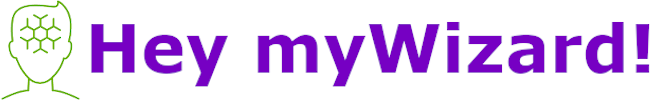
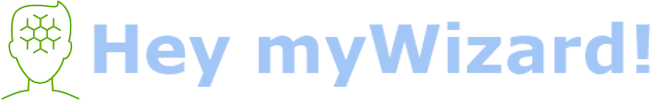
old logic look and feel revised

Changed region(s): [[0.1229, 0.21, 1.0, 0.87]]

diff --git a/rn-mywizard/src/components/chatbot/inputBox.js b/rn-mywizard/src/components/chatbot/inputBox.js
@@ -1,30 +1,29 @@
 import React from 'react';
-
+import cssGlobal from '../../css/globalStyles';
 const InputBox = (props) => {
 
     return (
+
+
+
+
         <div id="mw-inputbox" style={styles.inputContainer} className="row">
-            <div className="col  m12">
-                <div className="card indigo">
-                    <div className="card-content white-text">
-
-                        <input style={styles.inputBox}  className="textinput" 
-                            type="text" minLength="4" 
-                            maxLength="150" placeholder="Type new message here"
-                            value={props.transcript}
-                            onChange={props.change}
-                            onKeyPress={props.onkeypress}
-                        />
-                        <div className="row valign-wrapper">
-                            <button style={styles.buttonTwo} className="btn waves-effect waves-light" onClick={props.clickTwo} name="mantis">Send <i className="fas fa-paper-plane"></i></button>
-                            <button style={styles.buttonOne} className="btn waves-effect waves-light" onClick={props.click} name="mantis"><i className={props.micOnOff}></i></button>
-                        </div>
-
+            <ul className="collection" style={styles.collection} >
+                <li className="collection-item">
+                    <input className="textinput" style={styles.inputBox}
+                        type="text" minLength="4"
+                        maxLength="150" placeholder="Type new message here"
+                        value={props.transcript}
+                        onChange={props.change}
+                        onKeyPress={props.onkeypress}
+                    />
+                    <div className="row valign-wrapper" style={styles.rowValignWrapper}>
+                        <button style={styles.buttonTwo} className="btn waves-effect waves-light" onClick={props.clickTwo} name="mantis">Send <i className="fas fa-paper-plane"></i></button>
+                        <button style={styles.buttonOne} className="btn waves-effect waves-light" onClick={props.click} name="mantis"><i className={props.micOnOff}></i></button>
                     </div>
-                </div>
+                </li>
+            </ul>
 
-
-            </div>
         </div>
     )
 
@@ -32,17 +31,30 @@ const InputBox = (props) => {
 }
 const styles = {
     inputBox: {
-        color: 'white'
-    }, 
+        color: 'black',
+        borderBottom: cssGlobal.lightGrayBorder,
+        boxShadow: 'none'
+    },
     inputContainer: {
         width: '100%',
-        color: 'white',   
+        height: '50%',
+        color: 'white',
+        marginBottom: '0%',
+        boxShadow: 'red'
+    },
+    collection: {
+        border: 'none'
+    },
+    rowValignWrapper: {
+        marginBottom: '0%'
     },
     buttonTwo: {
-        marginLeft: '1.5%'
+        marginLeft: '1.5%',
+        backgroundColor: cssGlobal.lightBlue
     },
     buttonOne: {
-        marginLeft: '1%'
+        marginLeft: '1%',
+        backgroundColor: cssGlobal.lightBlue
     }
 }
 

diff --git a/rn-mywizard/src/components/chatbot/message.js b/rn-mywizard/src/components/chatbot/message.js
@@ -1,31 +1,69 @@
 import React from 'react';
+import cssGlobal from '../../css/globalStyles'
 
 const Message = (props) => {
     return (
 
-        <div className="col s12 m8 offset-m2 l6 offset-l3">
-            <div className="card-panel purple darken-4 lighten-5 z-depth-1">
-                <div className="row valign-wrapper">
-                    {props.speaks === 'bot' &&
-                        <div className="col s3">
-                            <a href="/#" className="btn-floating btn-large waves-effect waves-light purple accent-1">{props.speaks}</a>
-                        </div>
-                    }
-                    <div className="col s10">
-                        <span className="white-text">
-                            {props.text}
-                        </span>
+        <div className="col s12 m8 offset-m2 l6 offset-l3"  >
+            {/* <div className="card-panel purple darken-4 lighten-5 z-depth-1"> */}
+            <div className="row valign-wrapper" style={styles.rowValignWrapper}  >
+                {props.speaks === 'bot' &&
+                    <div className="col s3" style={styles.botSpeaks} >
+                        <a href="/#" className="btn-floating btn-large waves-effect waves-light  blue lighten-3" style={styles.botSpeaks} >{props.speaks}</a>
                     </div>
-                    {props.speaks === 'user' &&
-                        <div className="col s3">
-                            <a href="/#" className="btn-floating btn-large waves-effect waves-light purple accent-4">{props.speaks}</a>
-                        </div>
-                    }
+                }
+                <div className="col s10" style={styles.text}   >
+                    <span  className="spanText" style={styles.spanText} >
+                        {props.text}
+                    </span>
                 </div>
+                {props.speaks === 'user' &&
+                    <div className="col s3" style={styles.userSpeaks}>
+                        <a href="/#" className="btn-floating btn-large waves-effect waves-light  blue lighten-4">{props.speaks}</a>
+                    </div>
+                }
             </div>
+            {/* </div> */}
         </div>
 
     );
 };
+//console.log(props.keys ) key={ props.keys%2 ? styles.botSpeaks.backgroundColor = 'red' :  console.log('user input'  ) } key={ props.keys%2 ?  console.log('bot output'  ) :  Object.assign( {},styles.text, newStyles.text ) }
+const styles = {
+    rowValignWrapper: {
+        width: '90%',
+        
+    },
+    text: {
+        backgroundColor: cssGlobal.gray ,
+        border: cssGlobal.gray,
+        borderRadius: '24px',
+        width: '71%',
+        padding: '2%',
+        textAlign: 'left', 
+        textColor: cssGlobal.black
+    },
+    spanText: {
+        color: cssGlobal.black
+    },
+    botSpeaks: {
+        marginLeft: '0%',
+        color: cssGlobal.botIcons ,
+    },
+    userSpeaks: {
+       
+    }
+}
+
+const newStyles = {
+    
+    text: {
+        marginLeft: '-54%',
+    },
+    userSpeaks: {
+        marginLeft: '84%',
+    }
+}
+
 
 export default Message;

diff --git a/rn-mywizard/src/components/chatbot/SingleBotMessage.js b/rn-mywizard/src/components/chatbot/SingleBotMessage.js
@@ -1,31 +1,49 @@
 import React from 'react';
+import cssGlobal from '../../css/globalStyles'; 
 
 const SingleMessage = (props) => {
     return (
 
-        <div id={props.id}className="col s12 m8 offset-m2 l6 offset-l3 single-message">
-            <div className="card-panel purple darken-4 lighten-5 z-depth-1">
-                <div className="row valign-wrapper">
-                    {props.speaks === 'bot' &&
-                        <div className="col s3">
-                            <a href="/#" className="btn-floating btn-large waves-effect waves-light purple accent-1">{props.speaks}</a>
-                        </div>
-                    }
-                    <div className="col s10">
-                        <span className="white-text">
-                            {props.text}
-                        </span>
+        <div id={props.id} className="col s12 m8 offset-m2 l6 offset-l3 single-message">
+
+            <div className="row valign-wrapper"  style={styles.rowValignWrapper} >
+                {props.speaks === 'bot' &&
+                    <div className="col s3">
+                        <a href="/#" className="btn-floating btn-large waves-effect waves-light  blue lighten-3">{props.speaks}</a>
                     </div>
-                    {/* {props.speaks === 'user' &&
-                        <div className="col s3">
-                            <a href="/#" className="btn-floating btn-large waves-effect waves-light purple accent-4">{props.speaks}</a>
-                        </div>
-                    } */}
+                }
+                <div className="col s10" style={styles.text} >
+                    <span className="spanText" style={styles.spanText} >
+                        {props.text}
+                    </span>
                 </div>
             </div>
+
         </div>
 
     );
 };
 
+const styles = {
+    rowValignWrapper: {
+        width: '90%',
+    },
+    text: {
+        backgroundColor: cssGlobal.gray,
+        border: cssGlobal.gray,
+        textColor: cssGlobal.black,
+        borderRadius: '24px',
+        width: '71%',
+        padding: '2%'
+    },
+     spanText: {
+         color: cssGlobal.black
+     }
+    // bubbleTail: {
+    //     width: '0',
+    //     height: '0',
+    //     borderBottom: ' 10px solid rebeccapurple',
+    //     borderRight: '100px solid transparent',
+    //   }
+}
 export default SingleMessage;

diff --git a/rn-mywizard/src/css/chatbotStyle.css b/rn-mywizard/src/css/chatbotStyle.css
@@ -1,33 +1,28 @@
 /* the inside chatbot scrollbar */
+
 /*
 (151, 202, 61)
 */
-div#chatbot::-webkit-scrollbar
-{
-    width: 10px;
-    background-color: none;
+
+div#chatbot::-webkit-scrollbar {
+  width: 10px;
+  background-color: none;
 }
 
-div#chatbot::-webkit-scrollbar-track
-{
-    -webkit-box-shadow: inset 0 0 6px rgba(0,0,0,0.3);
-    background-color: none;
-    border-radius: 10px;
+div#chatbot::-webkit-scrollbar-track {
+  -webkit-box-shadow: inset 0 0 6px rgba(0, 0, 0, 0.3);
+  background-color: none;
+  border-radius: 10px;
 }
 
-div#chatbot::-webkit-scrollbar-thumb
-{
-    border-radius: 10px;
-    background-image: -webkit-gradient(linear,
-                                       left bottom,
-                                       left top,
-                                       color-stop(0.44, rgb(173,213,100)),
-                                       color-stop(0.72, rgb(151,202,61)),
-                                       color-stop(0.86, rgb(130,173,48)));
+div#chatbot::-webkit-scrollbar-thumb {
+  border-radius: 10px;
+  background-image: -webkit-gradient(linear, left bottom, left top, color-stop(0.44, rgb(162, 198, 246)), color-stop(0.72, rgb(162, 198, 246)), color-stop(0.86, rgb(162, 198, 246)));
 }
 
 /* input box */
 
+/* 
 @media only screen and (min-width: 425px) {
     div#mw-inputbox.row{
     
@@ -38,5 +33,5 @@ div#chatbot::-webkit-scrollbar-thumb
        
     
     }
-  } 
-
+  }  */
+ 

diff --git a/rn-mywizard/src/components/chatbot/chatbot.js b/rn-mywizard/src/components/chatbot/chatbot.js
@@ -8,6 +8,7 @@ import InputBox from './inputBox';
 import Loader from '../loader/loader';
 
 import '../../css/chatbotStyle.css';
+import cssGlobal from '../../css/globalStyles'; 
 
 const SpeechRecognition = window.webkitSpeechRecognition;
 const reconition = new SpeechRecognition()
@@ -248,7 +249,7 @@ class Chatbot extends Component {
     renderMessages = (returnedMessages) => {
         if (returnedMessages) {
             return returnedMessages.map((message, i) => {
-                return <Message key={i} speaks={message.speaks} text={message.msg.text.text} />;
+                return <Message keys={i} speaks={message.speaks} text={message.msg.text.text} />;
             })
         } else {
             return '[*NO MESSAGES*]';
@@ -329,14 +330,14 @@ const styles = {
         padding: '1%'
     },
     cbcontainer: {
-        backgroundColor: '#1a237e',
-        height: '60%',
-        width: '70%',
+        backgroundColor: 'white',
+        height: '60%', 
+        width: '50%',
        // borderColor: 'black',
-        border: 'solid 5px #97ca3d',
+        border: 'solid 5px #a2c6f6',
         padding: '2%',
         paddingLeft: '3%',
-        marginLeft: '15%',
+        marginLeft: '25%',
         borderBottomLeftRadius: '10px',
         borderBottomRightRadius: '10px',
         borderTopLeftRadius: '10px',

diff --git a/rn-mywizard/src/components/loader/loader.js b/rn-mywizard/src/components/loader/loader.js
@@ -1,5 +1,5 @@
 import React from 'react';
-
+import cssGlobal from '../../css/globalStyles';
  const ShowDetail = () => {
   return (
     <div style={styles.loaderImage} className="loader center">
@@ -13,7 +13,7 @@ const styles = {
        zoom: 4
     },
     spinner: {
-        color: '#97ca3d'
+        color: cssGlobal.lightBlue
     }
 };
 

diff --git a/rn-mywizard/src/components/banner/banner.js b/rn-mywizard/src/components/banner/banner.js
@@ -14,7 +14,13 @@ const Banner = () => {
 
 const styles = {
     container: {
-        margin: '2%'
+        margin:' 2%,',
+        position:' absolute',
+        top: '1%',
+        float:' left',
+        width:' 30%',
+        left: '0%',
+    
      },
     logo: {
        width: '55%'

diff --git a/rn-mywizard/public/index.html b/rn-mywizard/public/index.html
@@ -28,7 +28,7 @@
       work correctly both with client-side routing and a non-root public URL.
       Learn how to configure a non-root public URL by running `npm run build`.
     -->
-    <title>React App</title>
+    <title>Hey myWizard!</title>
     <style>
        
        

diff --git a/rn-mywizard/src/css/globalStyles.js b/rn-mywizard/src/css/globalStyles.js
@@ -1,0 +1,10 @@
+const global = {
+    color: '',
+    lightBlue: '#a2c6f6',
+    gray: '#ededed',
+    black: 'black',
+    white: 'white',
+    lightGrayBorder: '1px solid #ededed'
+}
+
+export default global; 
